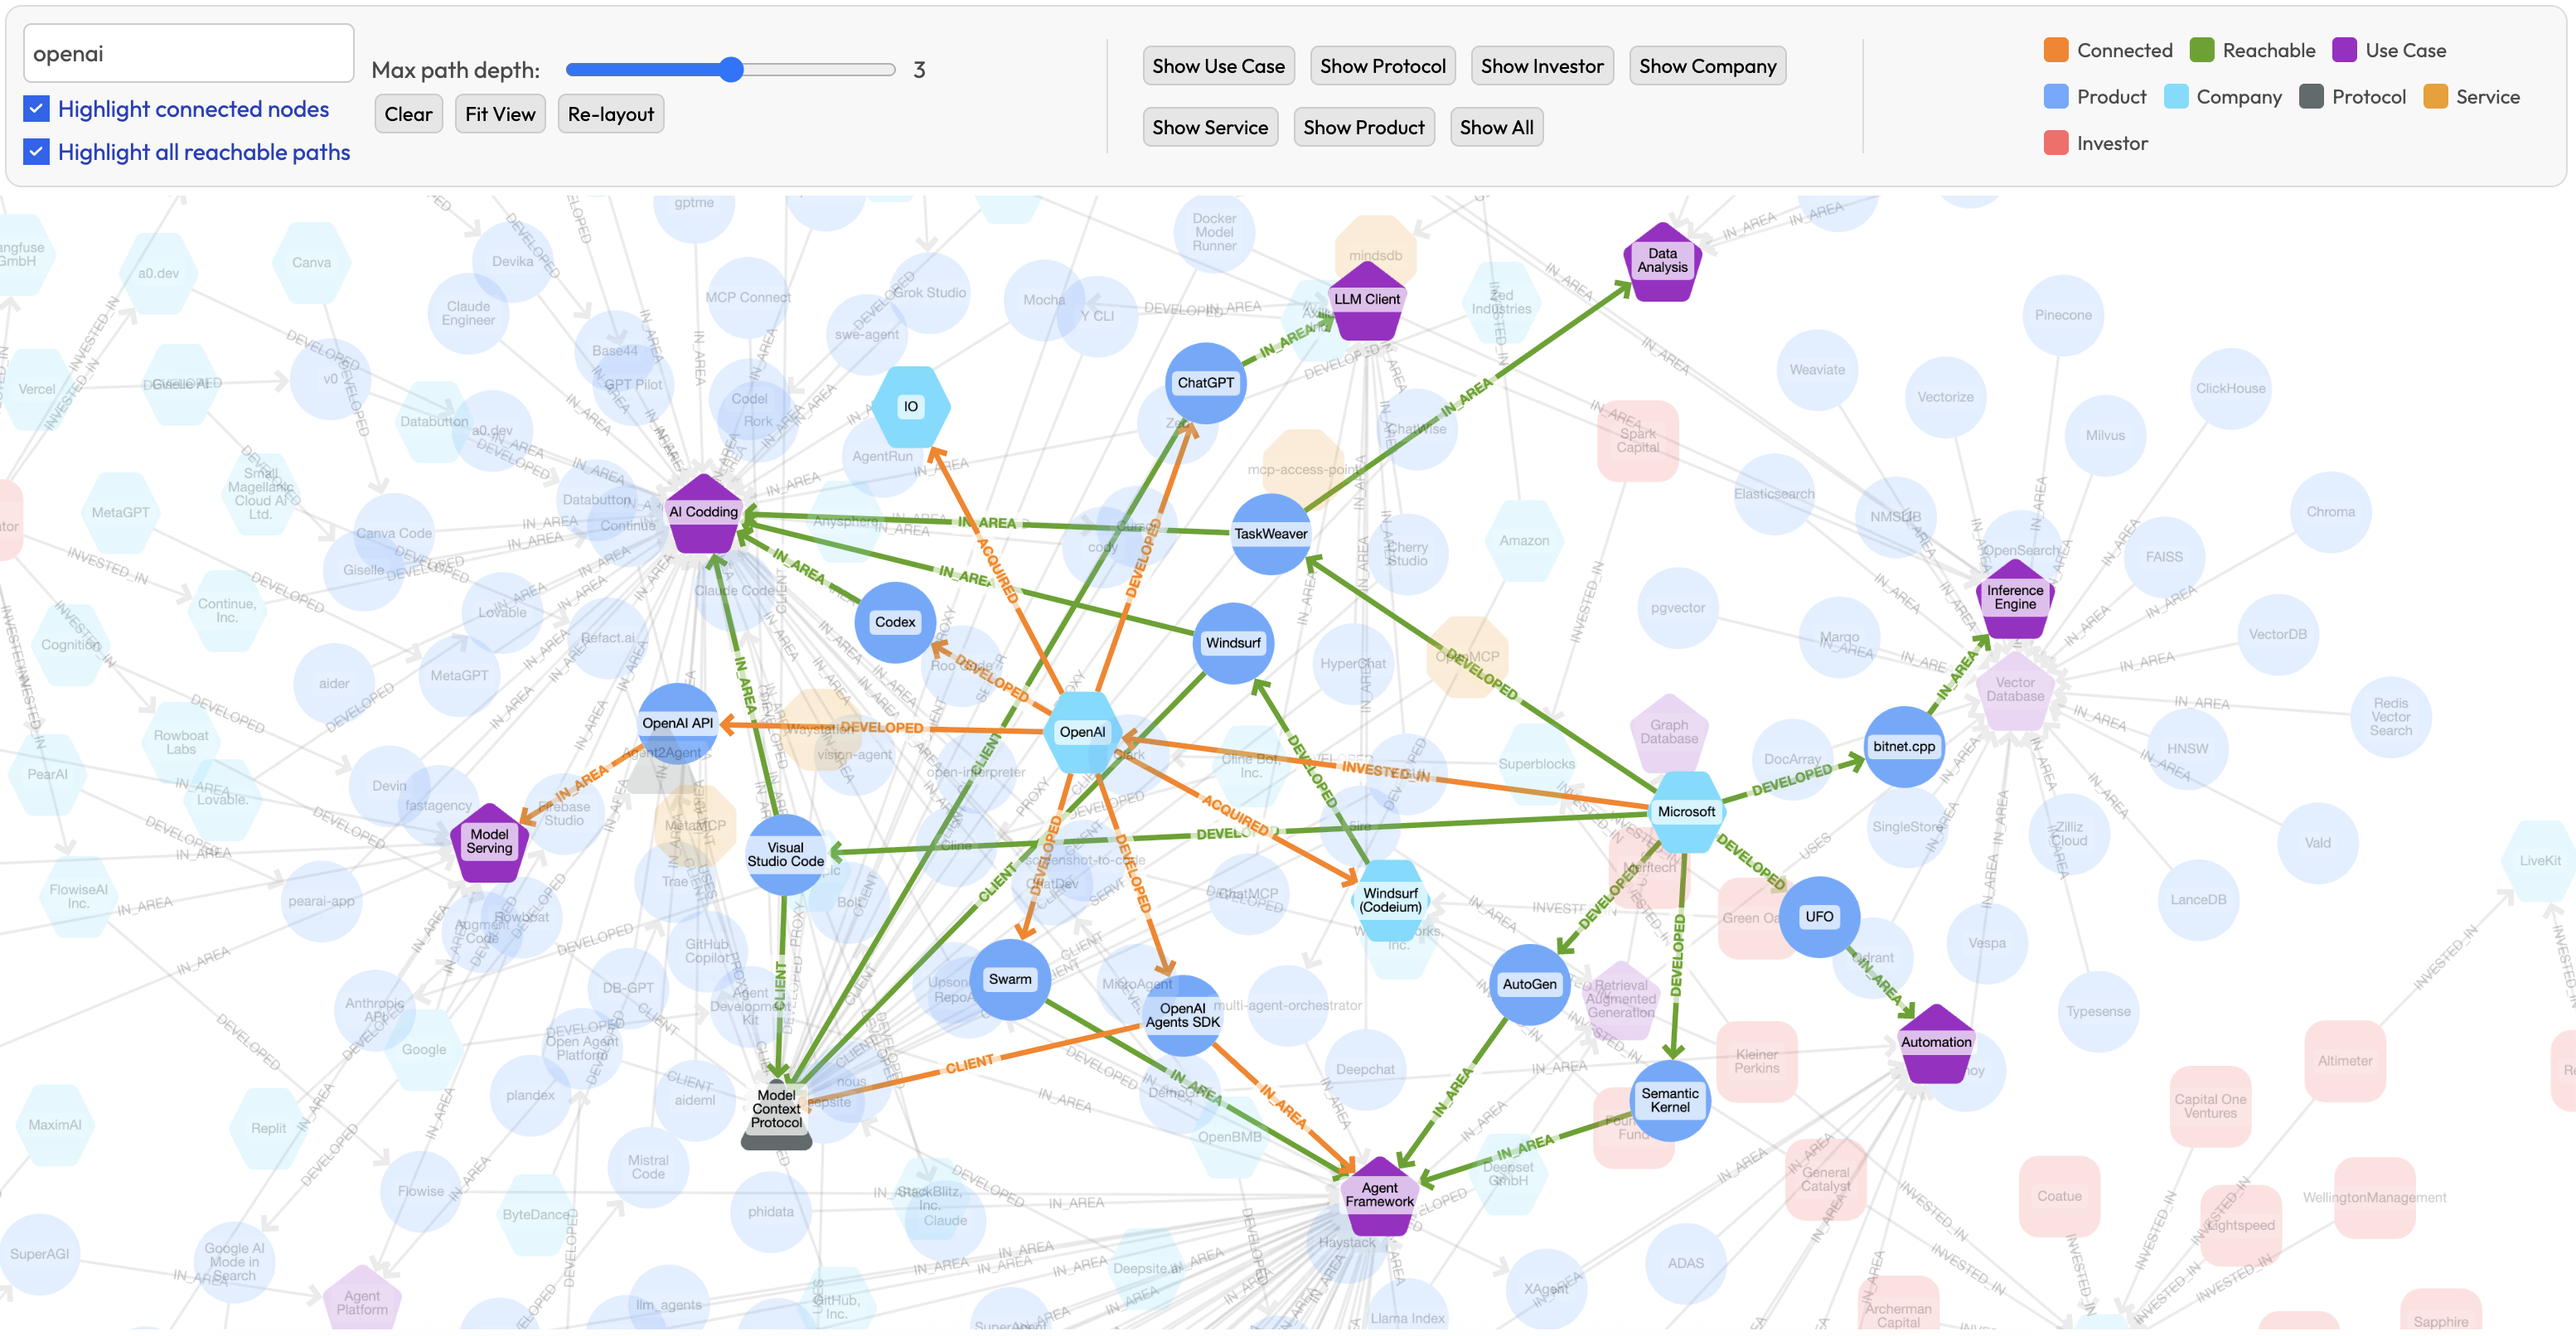
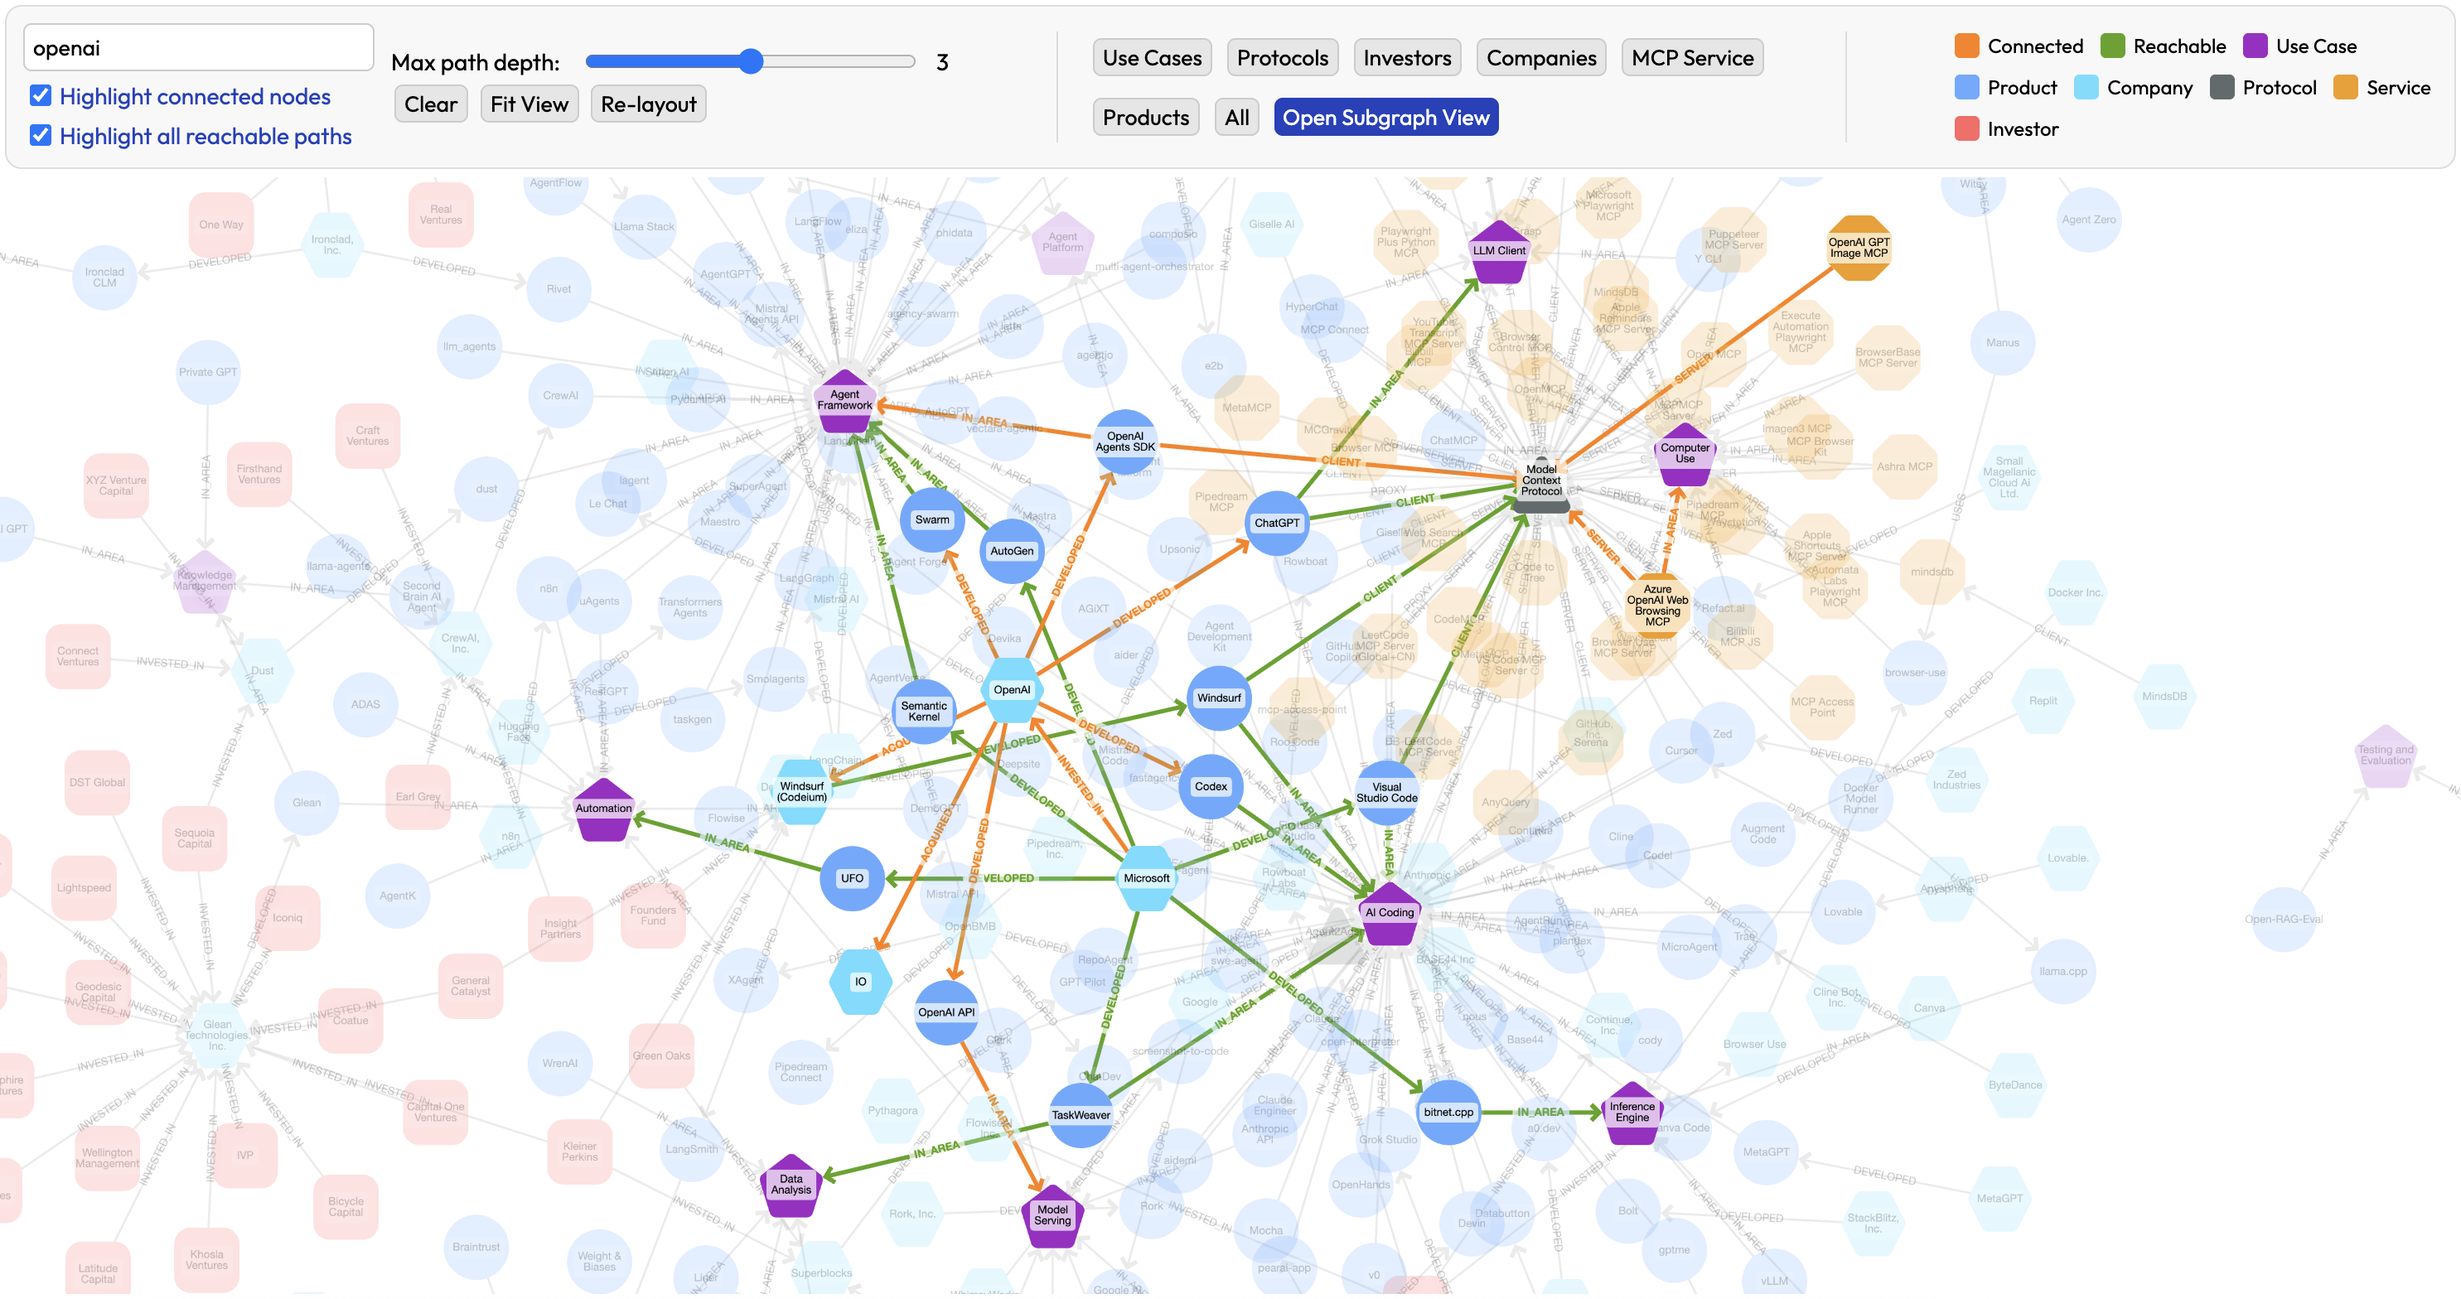
Updated images to new features

diff --git a/README.md b/README.md
@@ -82,6 +82,22 @@ The example below displays all use cases and the products related to them.
 
 <img src="media/07--data-filtered-for-all-application-areas.png" alt="List all application areas using predefined button." width="100%">
 
+### Subgraphs and tabular data
+
+Top navigation middle section includes button **Open Subgraph View** which can be used together with any filter buttons. After selecting for example **Use Case**, a filter will be set to include all use case nodes. After using **Open Subgraph View** a modal will be open that will include table view of all nodes of the selected type. In case of **Use Case**, this will be a table of all application areas. 
+
+<img src="media/08--tabularized-data-fitered-for-subgraph.png" alt="Table view of the nodes for a given filter (node type)." width="100%">
+
+The presented table includes all entries for a given node type and each of them lists a **View** button. Using it present a detailed view of the selected node with a table including details on the left and subgraph on the right. 
+
+**View All Connections** button can be used to switch from the summary of the central node to the list of connections.
+
+<img src="media/09--subgraph-of-selected-data.png" alt="Subgraph of the selected node and all of nodes connected to it." width="100%">
+
+
+Alternatively a click on the node or item on the list of subgraph nodes (from previous step), will display details of the selected node (for example details of the central node).
+
+<img src="media/10--node-properties-and-details-of-product-or-company.png" alt="Properties of the selected element of the subgraph." width="100%">
 
 ## Contributions 
 
